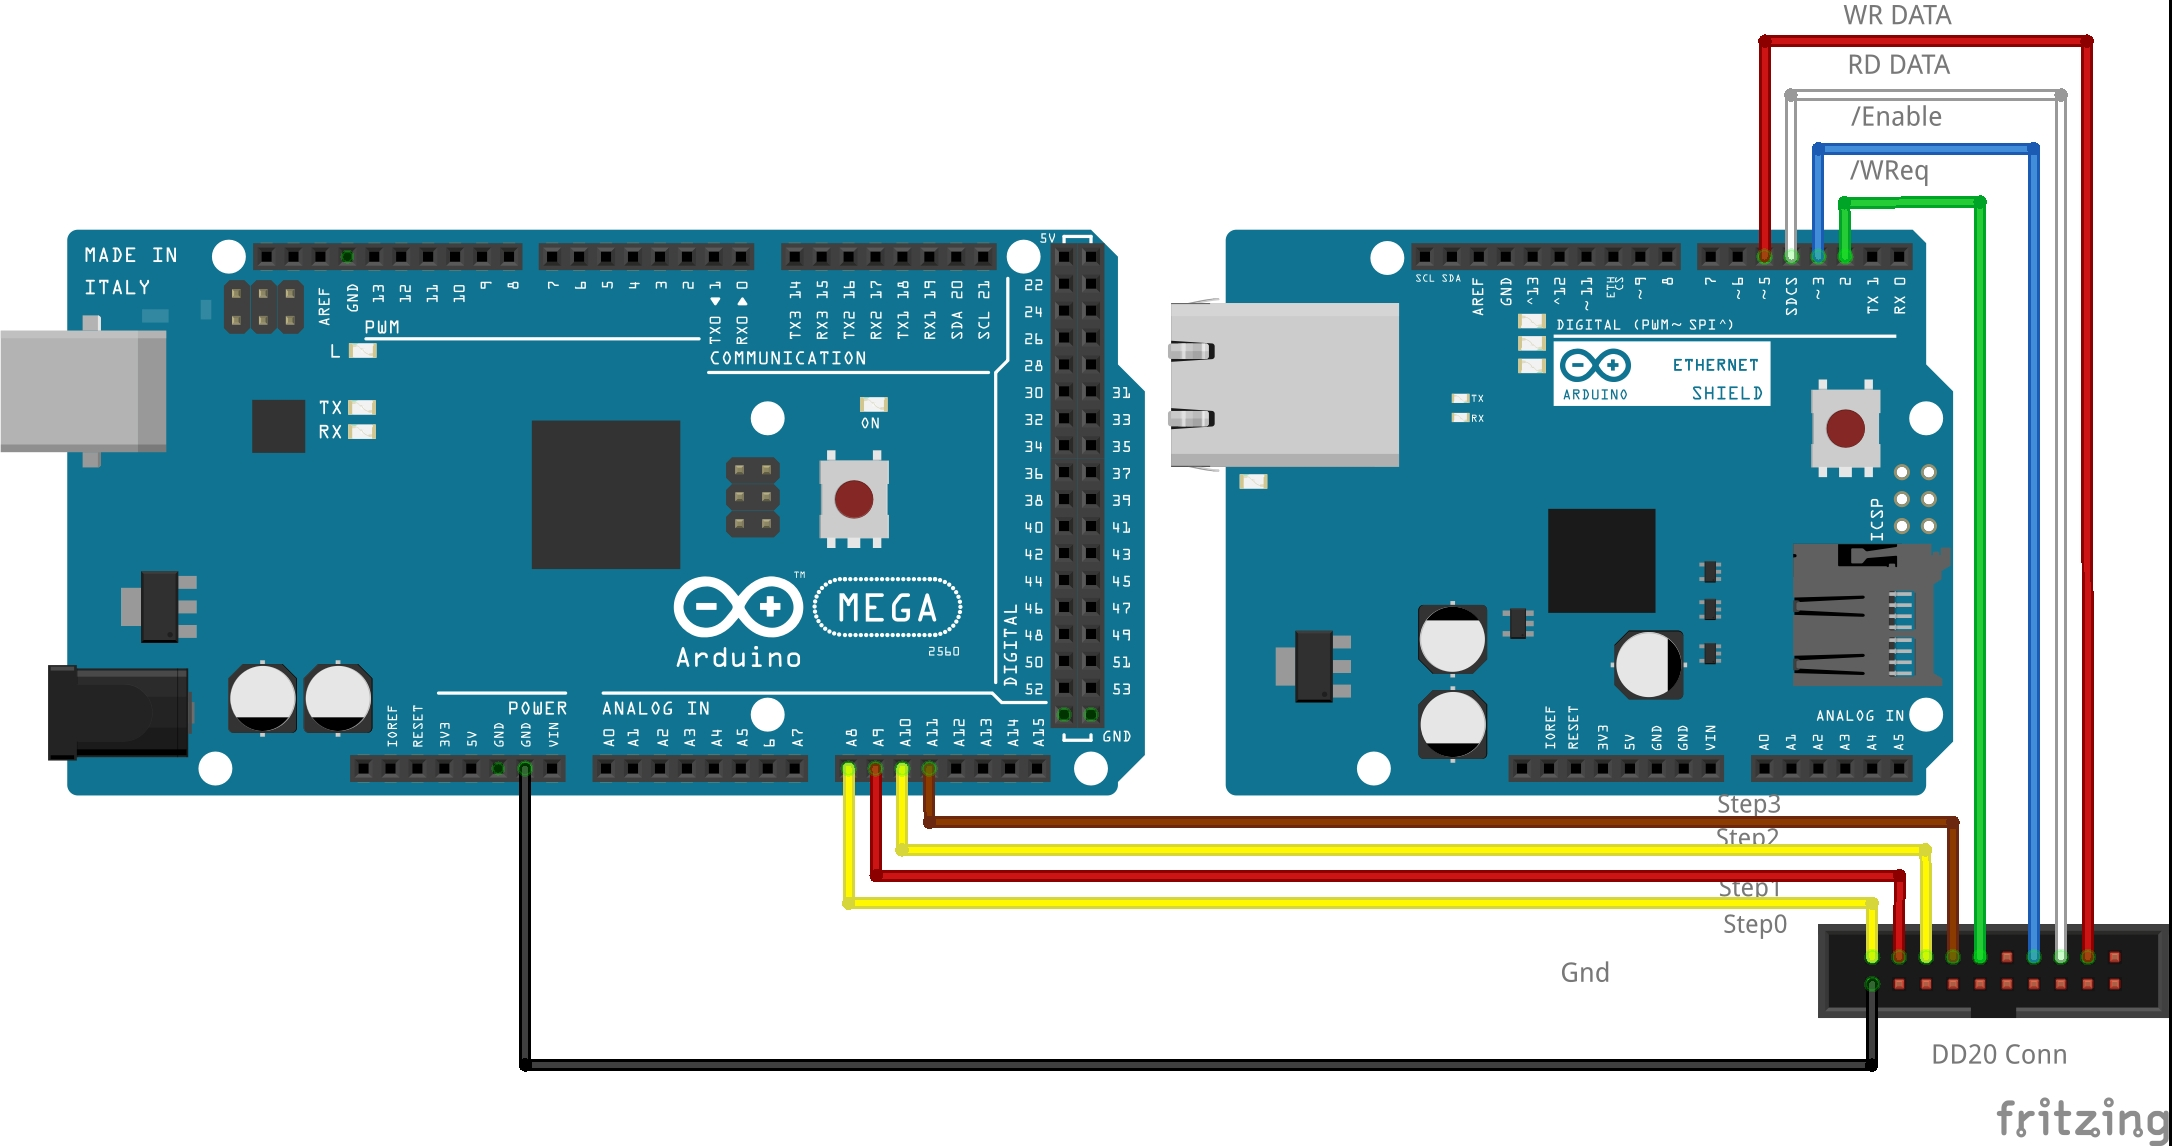
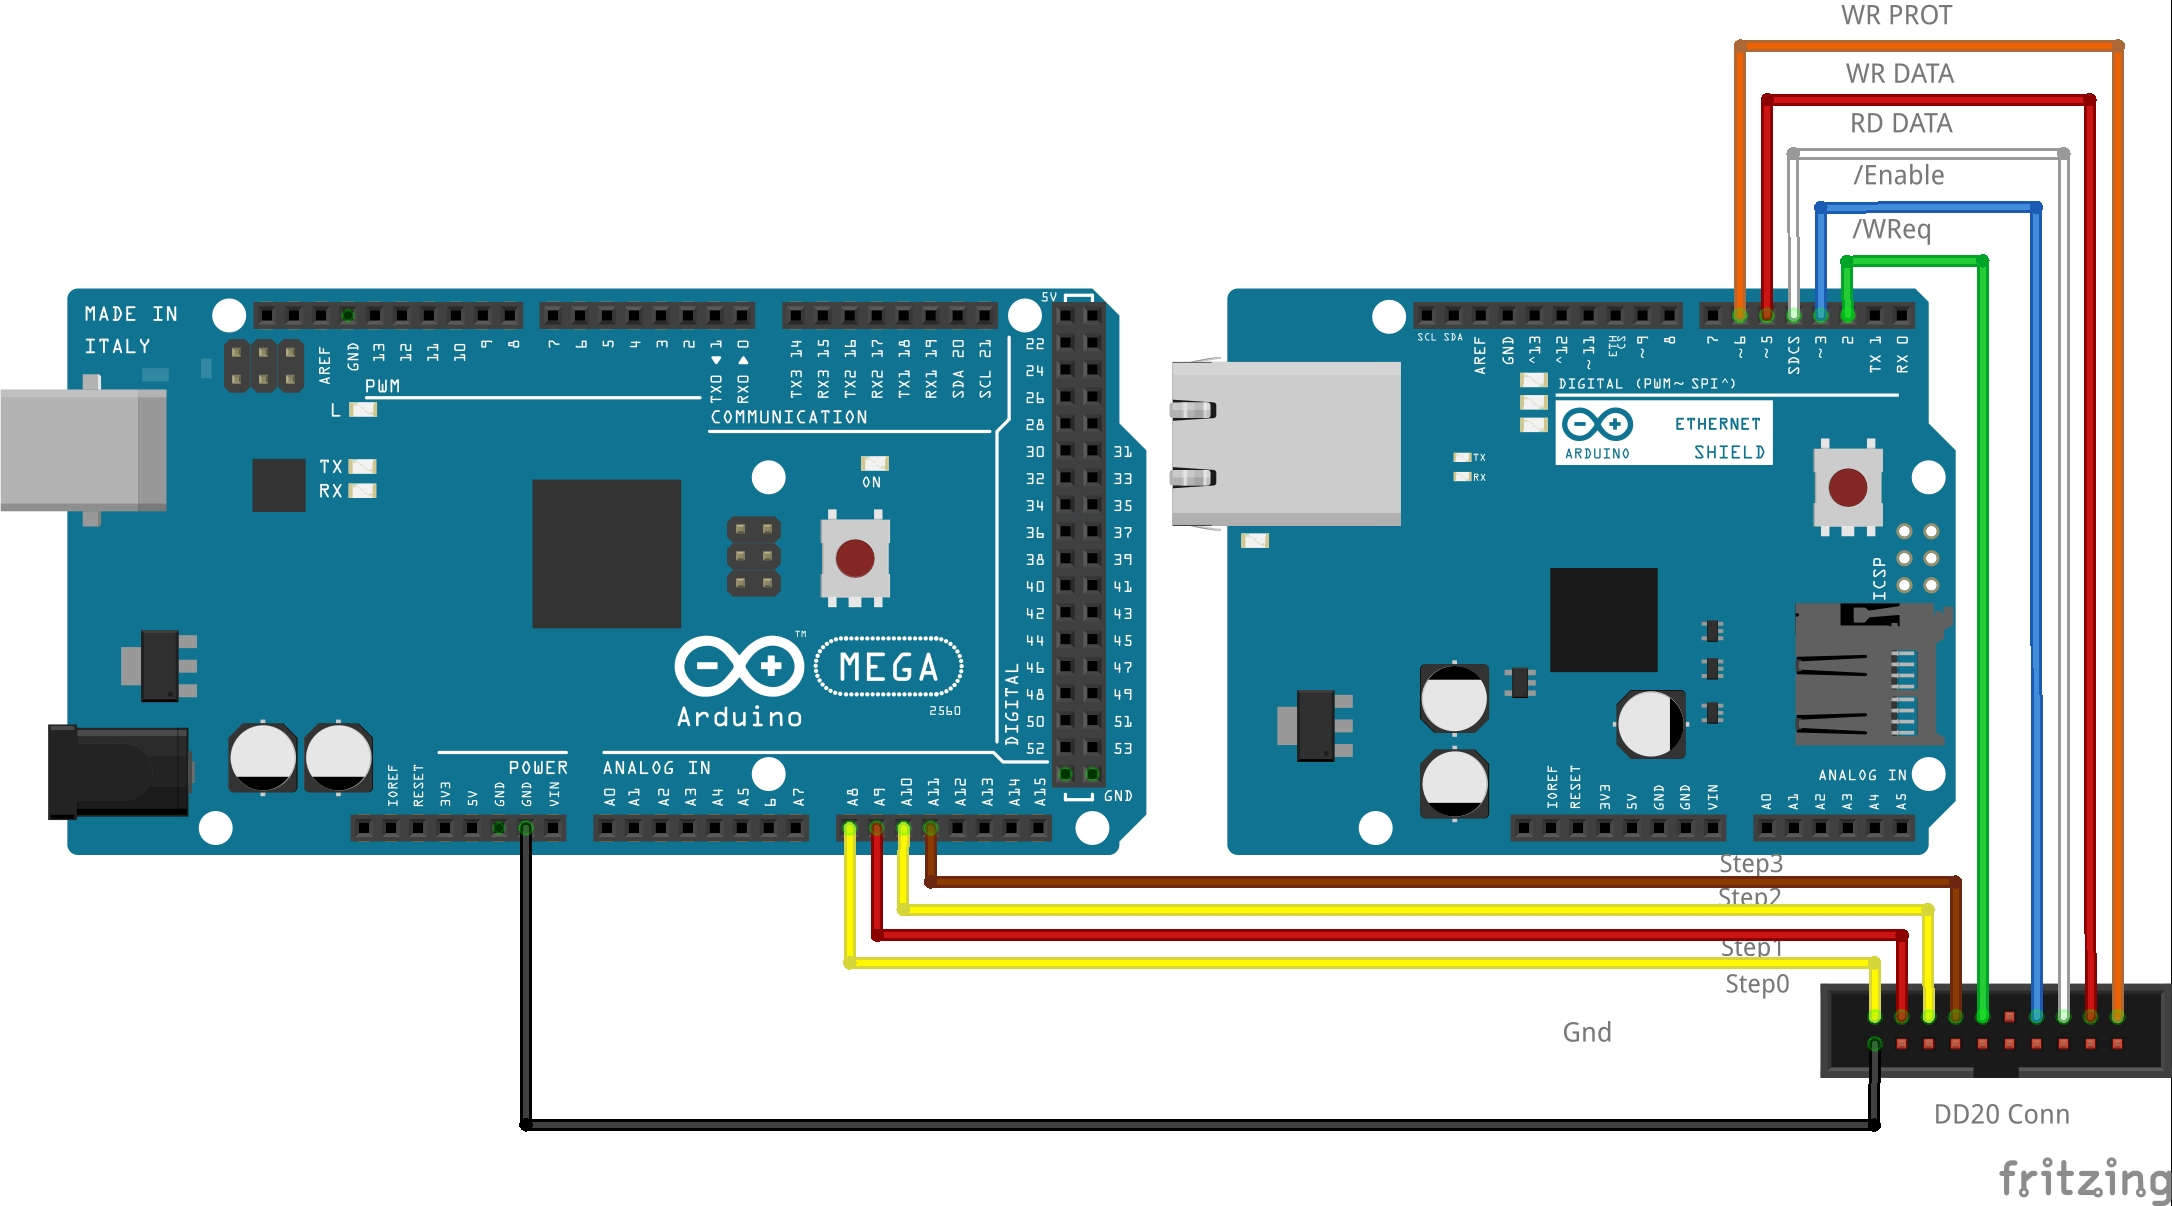
Wr support code cleanup (#33)
* Added Write protection support

* Update README.md

Changed region(s): [[0.0, 0.0, 1.0, 1.0], [0.7095, 0.4276, 0.7712, 0.4887], [0.5861, 0.5497, 0.6169, 0.6414]]

diff --git a/dd20emu/dd20emu_acl.h b/dd20emu/dd20emu_acl.h
@@ -49,6 +49,12 @@
  * A1, PC1,    Step1
  * A0, PC0,    Step0
 */
+
+/* Port and bit for WR PROT */
+#define PORT_WRPROT   PIND   //used in dd20emu.ino
+#define WP_DATA_BIT 6
+const byte wrProtPin = 6;
+
 /* Port and bit for RDDATA */
 #define PORT_RDDATA   PORTD   //rddata.ino
 #define RD_DATA_BIT 4
@@ -94,6 +100,11 @@ const byte stepPin0  = A0;
    20,  PD1,    Step1
    21,  PD0,    Step0  
 */
+
+/* Port and bit for WR PROT */
+#define PORT_WRPROT   PINH   //used in dd20emu.ino
+#define WP_DATA_BIT 3
+const byte wrProtPin = 6;
 
 /* Port and bit for RDDATA */
 #define PORT_RDDATA   PORTG   //rddata.ino

diff --git a/README.md b/README.md
@@ -21,6 +21,7 @@ Todo list:
 2023-02-05
 * Added serial terminal (Thanks https://github.com/dhansel/ArduinoFDC)
 * Replaced LUT sector sync algorithm with a better one.
+* Write protection
 
 2022-02-14
 Known issues:
